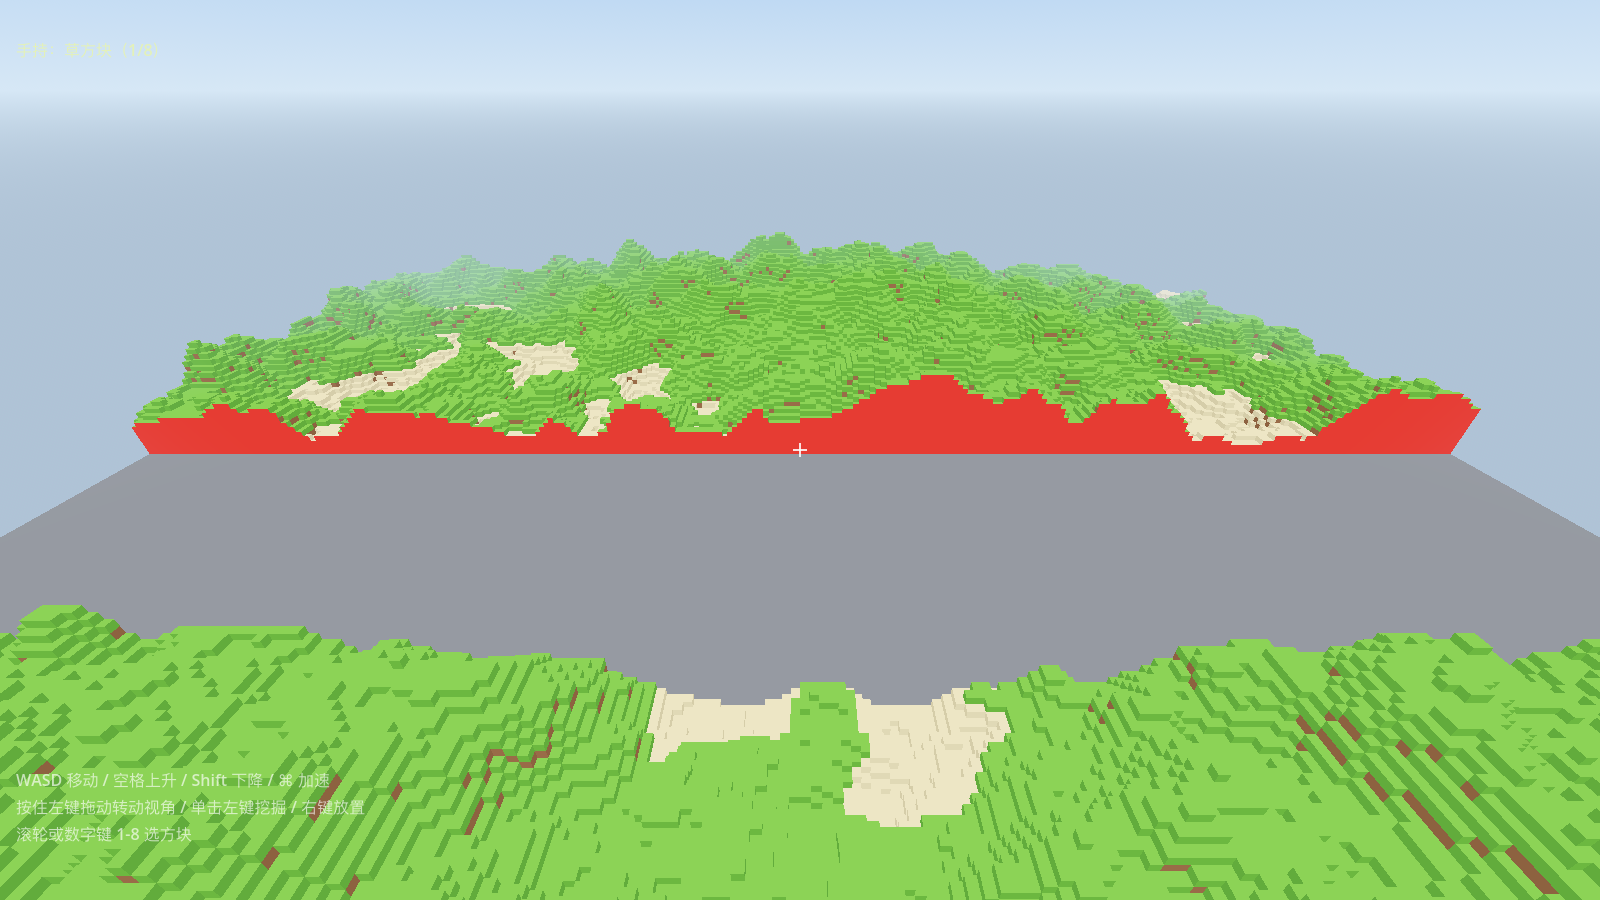
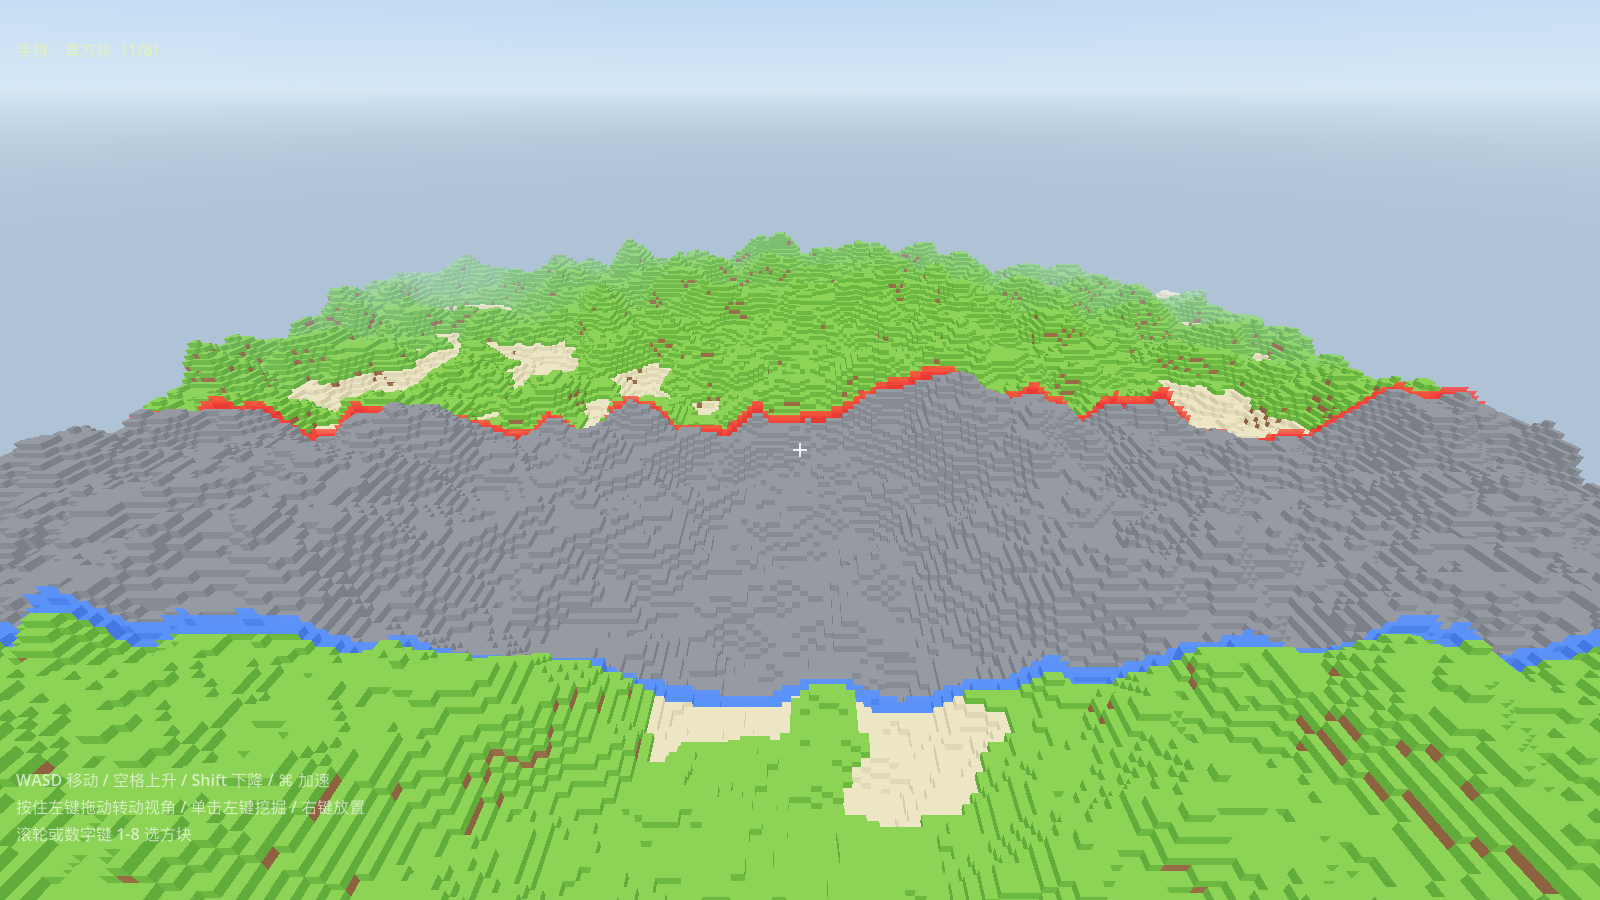
中立区恢复自然地形（整片灰方块），分界改为贴合地表的蓝/红发光色带

Changed region(s): [[0.0, 0.4044, 1.0, 0.8089]]

diff --git a/README.md b/README.md
@@ -4,7 +4,7 @@
 
 ## 现在能玩到的东西
 
-- 256×256、高度 64 的有限世界：左右两方各 100 宽，中间 56 宽是灰色中立区（禁止建造/破坏），中立区两侧断面染成蓝/红分界线
+- 256×256、高度 64 的有限世界：左右两方各 100 宽，中间 56 宽是灰色中立区（地形照常起伏，但整片换成灰色方块、禁止建造/破坏），两侧边界用贴合地形的蓝/红发光色带标出
 - 程序生成地形、沙滩、矿脉
 - 自由飞行视角，左键挖掘、右键放置、数字键选方块
 - 内置沙箱字节码 VM：玩家写的类 Python 代码可以在游戏里安全执行，不依赖外部解释器
